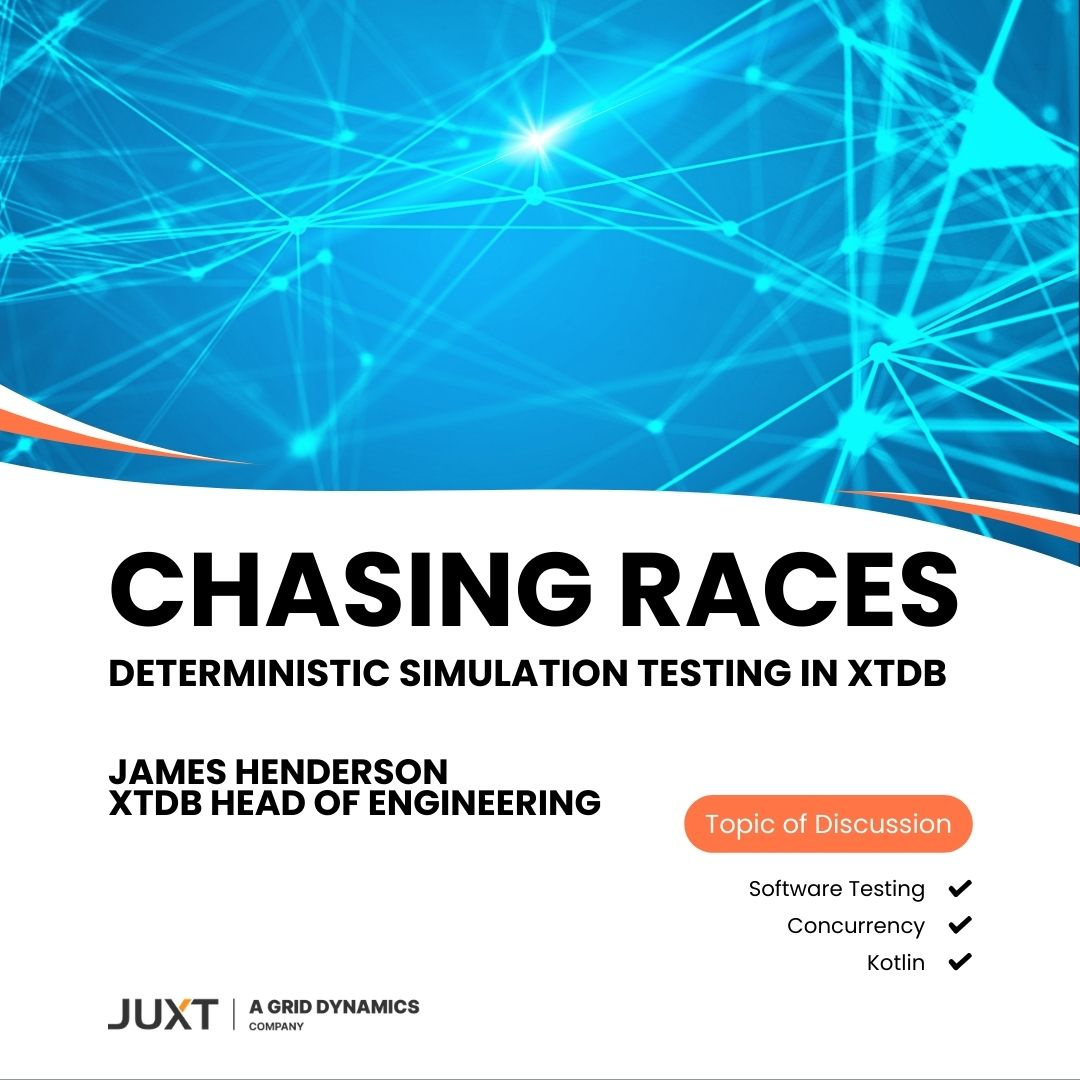
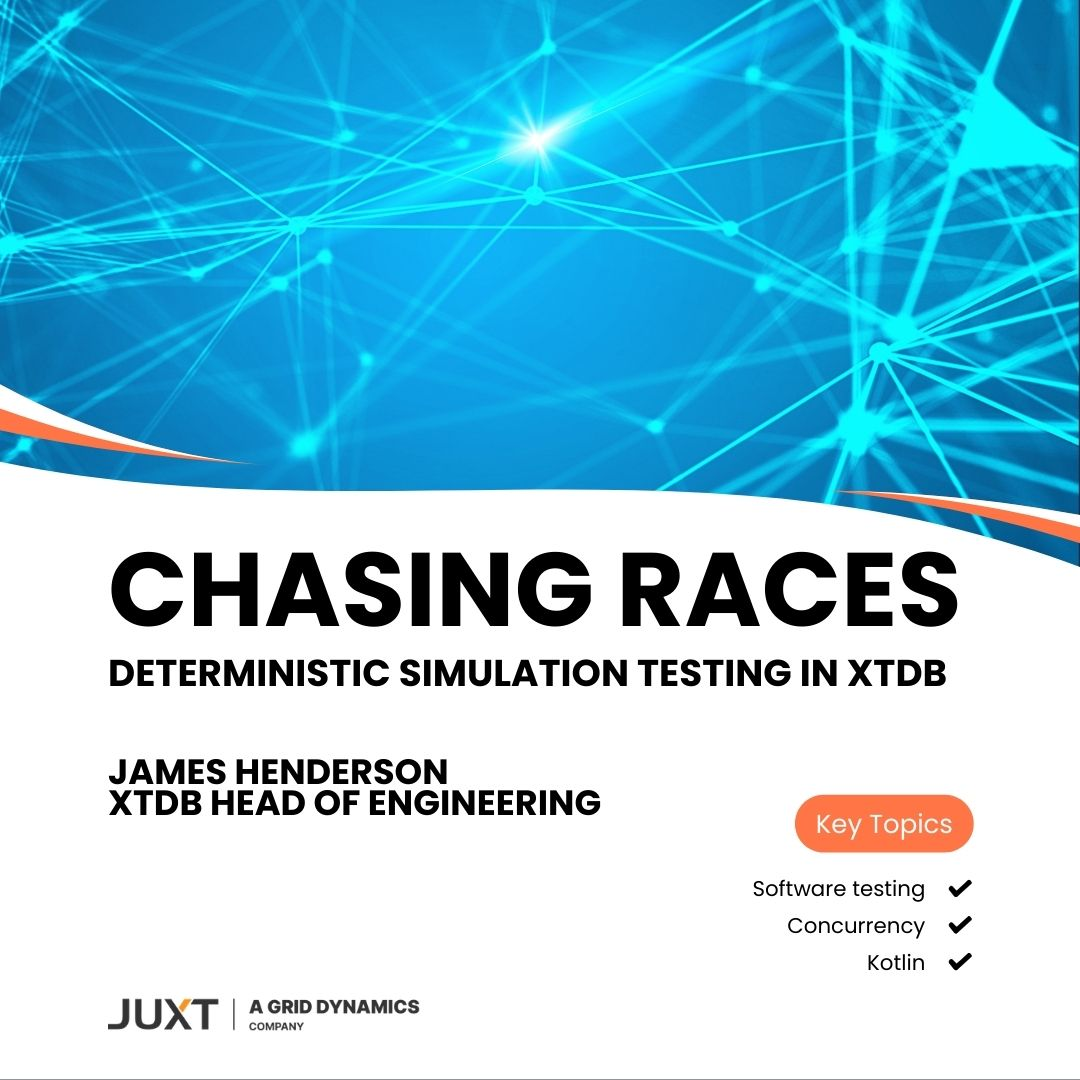
update og images and jason's post

Changed region(s): [[0.6111, 0.7333, 0.8861, 0.8556]]

diff --git a/src/pages/blog/the-softer-side-of-software-by-jason-field.md b/src/pages/blog/the-softer-side-of-software-by-jason-field.md
@@ -19,7 +19,7 @@ In this talk, I focus on soft skills as an essential part of delivering great sy
 
 I highlight five areas that have consistently helped me get the most out of interactions. These aren’t abstract leadership bullet points. They are lessons I’ve learned by being in the room, by missing opportunities, and by intentionally improving over time.
 
-Something that surprised many people when I started talking about it was how much I enjoy being involved in recruitment. Helping to spot and attract talented engineers isn’t just about scaling a team. It’s a chance to practise empathy, to ask better questions, to reflect on how we communicate what we value. Every interview becomes another way to sharpen the very skills we want to see in our teams.
+I also highlight some of the subtle extra value of being part of the recruitment process. Helping to spot and attract talented engineers isn’t just about scaling a team. It’s a chance to practise empathy, to ask better questions, to reflect on how we communicate what we value. Every interview becomes another way to sharpen the very skills we want to see in our teams.
 
 Soft skills matter because software is ultimately a human endeavour. Paying attention to how we collaborate makes our work better and our teams stronger.
 
